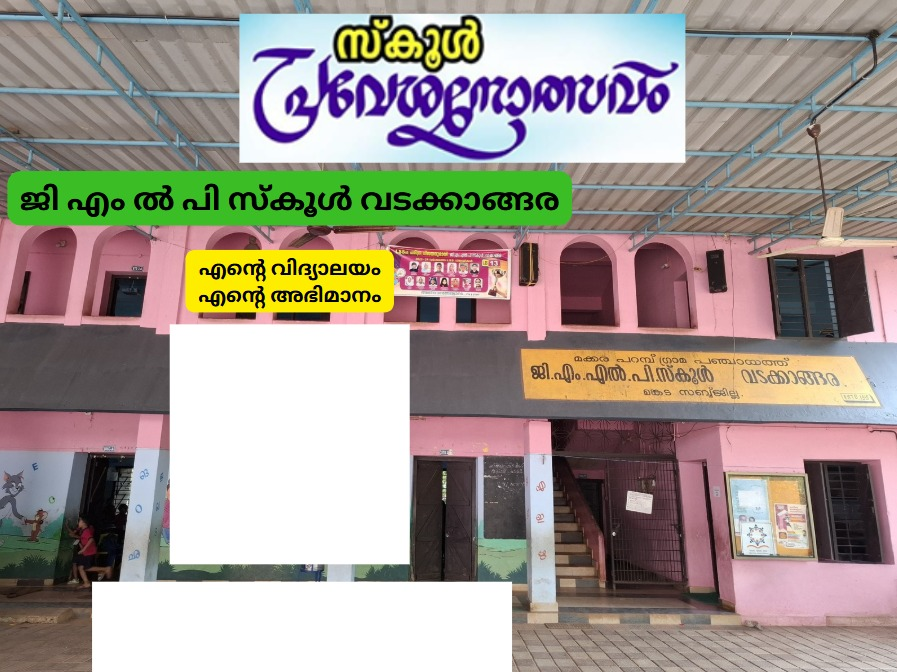
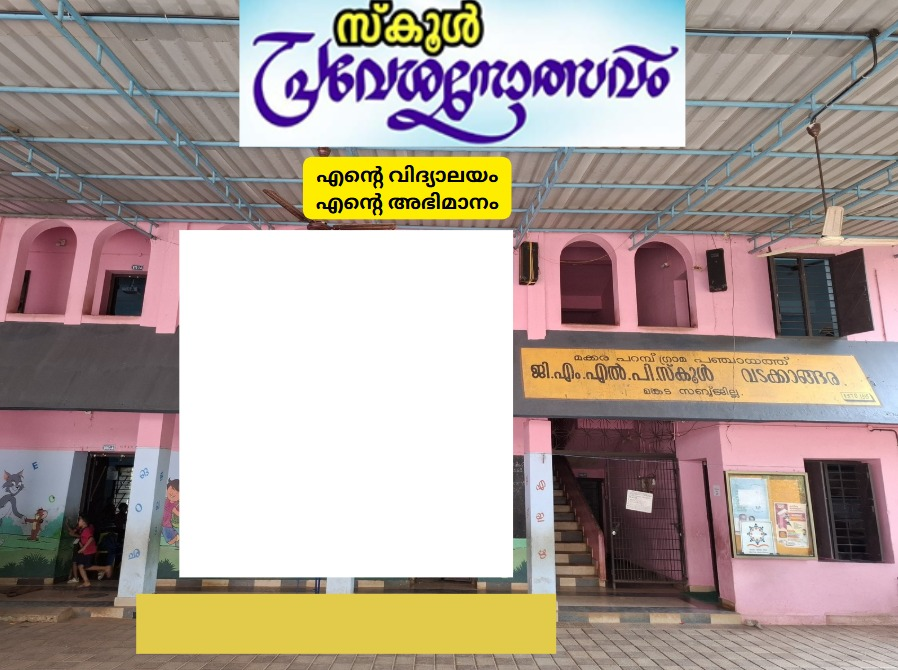
Add files via upload

diff --git a/index.html b/index.html
@@ -1,92 +1,166 @@
 <!DOCTYPE html>
-<html lang="en">
+<html lang="ml">
 <head>
   <meta charset="UTF-8" />
   <meta name="viewport" content="width=device-width, initial-scale=1.0"/>
-  <title>Photo Generator</title>
+  <title>School Poster Generator</title>
   <style>
     body {
-      font-family: Arial, sans-serif;
+      font-family: sans-serif;
+      background: #eee;
+      margin: 0;
+      padding: 1rem;
       text-align: center;
     }
 
-    #preview {
-      position: relative;
-      display: inline-block;
-      margin-top: 20px;
-    }
-
-    #baseImage {
+    canvas {
       max-width: 100%;
       height: auto;
+      border: 1px solid #ccc;
+      margin-top: 1rem;
     }
 
-    #uploadedPhoto {
-      position: absolute;
-      top: 148px; /* Adjust this value */
-      left: 104px; /* Adjust this value */
-      width: 300px;
-      height: 360px;
-      object-fit: contain;
+    #controls {
+      margin-bottom: 1rem;
     }
 
-    #nameOverlay {
-      position: absolute;
-      top: 320px; /* Vertical center of the box */
-      left: 254px;
-      transform: translateX(-50%);
-      width: 280px;
-      color: black;
-      font-size: 22px;
-      font-weight: bold;
-      text-align: center;
-      font-family: 'Noto Sans Malayalam', sans-serif;
+    input[type="file"],
+    input[type="text"] {
+      margin: 0.5rem;
+      padding: 0.5rem;
+    }
+
+    button {
+      padding: 0.5rem 1rem;
+      font-size: 1rem;
+      margin: 0.5rem;
+    }
+
+    #crop-container {
+      display: none;
+      margin: 1rem auto;
+    }
+
+    #crop-image {
+      max-width: 100%;
     }
   </style>
+
+  <link href="https://cdnjs.cloudflare.com/ajax/libs/cropperjs/1.5.13/cropper.min.css" rel="stylesheet">
 </head>
 <body>
-  <h2>🖼 Photo & Name Generator</h2>
-  <form id="uploadForm">
-    <label>Name: <input type="text" id="nameInput" required></label><br><br>
-    <label>Photo (optional): <input type="file" id="photoInput" accept="image/*"></label><br><br>
-    <button type="submit">Generate</button>
-  </form>
 
-  <div id="preview" style="display: none;">
-    <img id="baseImage" src="background.png" alt="Base">
-    <img id="uploadedPhoto" alt="Uploaded" />
-    <div id="nameOverlay"></div>
+  <h2>📸 സ്കൂൾ പോസ്റ്റർ ജനറേറ്റർ</h2>
+
+  <div id="controls">
+    <input type="file" id="imageUpload" accept="image/*" />
+    <br/>
+    <input type="text" id="nameInput" placeholder="പേര് എഴുതുക" />
+    <br/>
+    <button onclick="generatePoster()">Generate Poster</button>
+    <button onclick="downloadImage()">Download</button>
   </div>
 
+  <div id="crop-container">
+    <img id="crop-image" />
+    <br/>
+    <button onclick="cropImage()">Crop & Continue</button>
+  </div>
+
+  <canvas id="posterCanvas" width="898" height="670"></canvas>
+
+  <script src="https://cdnjs.cloudflare.com/ajax/libs/cropperjs/1.5.13/cropper.min.js"></script>
   <script>
-    const form = document.getElementById('uploadForm');
-    const photoInput = document.getElementById('photoInput');
-    const uploadedPhoto = document.getElementById('uploadedPhoto');
-    const nameOverlay = document.getElementById('nameOverlay');
-    const preview = document.getElementById('preview');
+    const canvas = document.getElementById("posterCanvas");
+    const ctx = canvas.getContext("2d");
+    const nameInput = document.getElementById("nameInput");
+    const imageUpload = document.getElementById("imageUpload");
+    const cropContainer = document.getElementById("crop-container");
+    const cropImage = document.getElementById("crop-image");
+    let cropper = null;
+    let finalImage = null;
 
-    form.addEventListener('submit', (e) => {
-      e.preventDefault();
+    const template = new Image();
+    template.src = "background.png"; // Replace with uploaded path or host path
 
-      const name = document.getElementById('nameInput').value.trim();
-      const file = photoInput.files[0];
+    template.onload = () => {
+      ctx.drawImage(template, 0, 0);
+    };
 
-      nameOverlay.textContent = name;
-      preview.style.display = 'inline-block';
-
-      if (file) {
-        const reader = new FileReader();
-        reader.onload = function(event) {
-          uploadedPhoto.src = event.target.result;
-          uploadedPhoto.style.display = 'block';
-          nameOverlay.style.top = '520px'; // Show name below image
-        };
-        reader.readAsDataURL(file);
-      } else {
-        uploadedPhoto.style.display = 'none';
-        nameOverlay.style.top = '320px'; // Center name in photo box
-      }
+    imageUpload.addEventListener("change", (e) => {
+      const file = e.target.files[0];
+      if (!file) return;
+      const reader = new FileReader();
+      reader.onload = () => {
+        cropImage.src = reader.result;
+        cropContainer.style.display = "block";
+        if (cropper) cropper.destroy();
+        cropper = new Cropper(cropImage, {
+          aspectRatio: 3/4,
+          viewMode: 1,
+        });
+      };
+      reader.readAsDataURL(file);
     });
+
+    function cropImage() {
+      finalImage = cropper.getCroppedCanvas().toDataURL();
+      cropContainer.style.display = "none";
+      drawEverything();
+    }
+
+    function drawEverything() {
+      ctx.clearRect(0, 0, canvas.width, canvas.height);
+      ctx.drawImage(template, 0, 0);
+
+      // Draw image inside white box: x=191, y=159, w=515, h=380
+      if (finalImage) {
+        const img = new Image();
+        img.onload = () => {
+          const maxW = 515;
+          const maxH = 380;
+          let w = img.width;
+          let h = img.height;
+          const ratio = Math.min(maxW / w, maxH / h);
+          w *= ratio;
+          h *= ratio;
+          const x = 191 + (maxW - w) / 2;
+          const y = 159 + (maxH - h) / 2;
+          ctx.drawImage(img, x, y, w, h);
+        };
+        img.src = finalImage;
+      }
+
+      // Draw name: yellow box at x=140, y=567, w=620, h=65
+      const text = nameInput.value.trim();
+      if (text) {
+        const maxWidth = 620;
+        const maxHeight = 65;
+        let fontSize = 60;
+        ctx.textAlign = "center";
+        ctx.textBaseline = "middle";
+        ctx.fillStyle = "#000";
+        do {
+          ctx.font = `${fontSize}px sans-serif`;
+          const metrics = ctx.measureText(text);
+          if (metrics.width <= maxWidth && fontSize <= maxHeight) break;
+          fontSize--;
+        } while (fontSize > 10);
+        ctx.fillText(text, 140 + 620 / 2, 567 + 65 / 2);
+      }
+    }
+
+    function generatePoster() {
+      drawEverything();
+    }
+
+    function downloadImage() {
+      const link = document.createElement("a");
+      link.download = "school_poster.png";
+      link.href = canvas.toDataURL();
+      link.click();
+    }
   </script>
+
 </body>
 </html>
